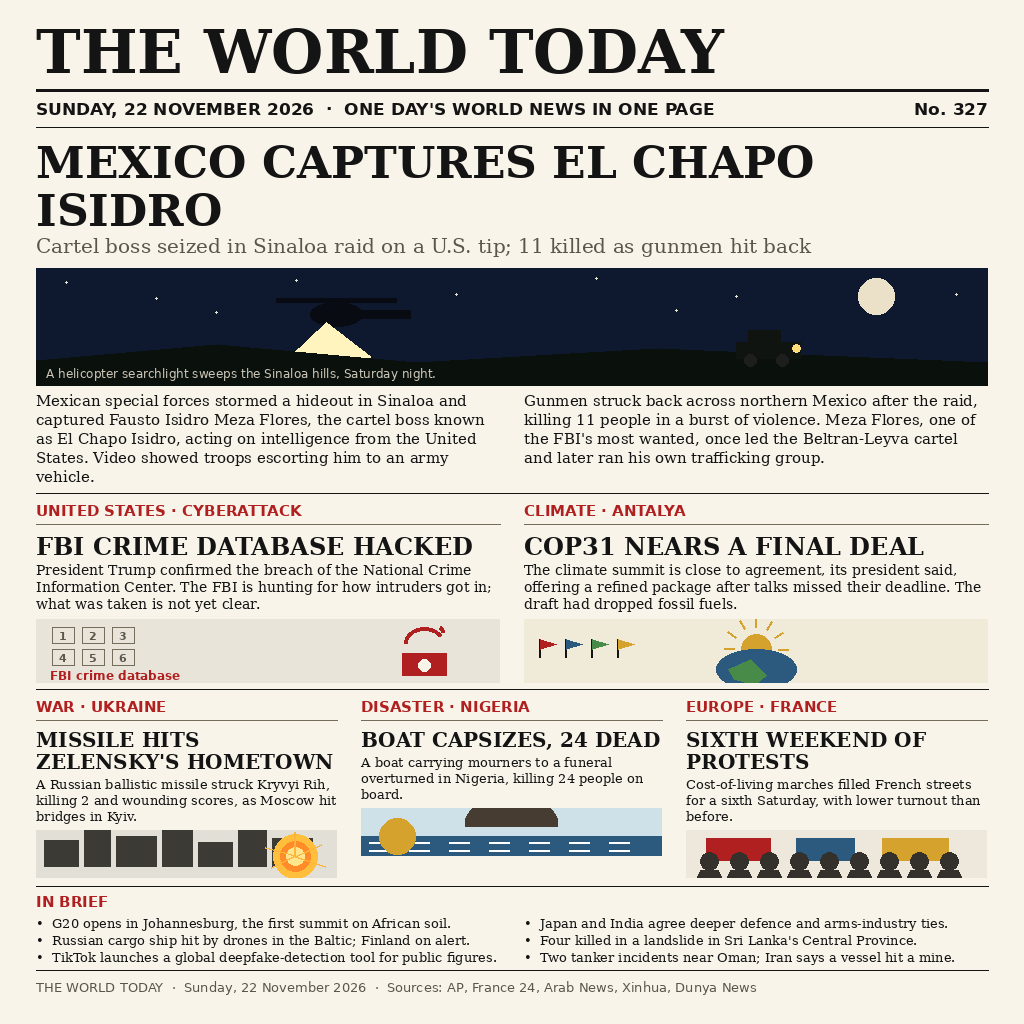
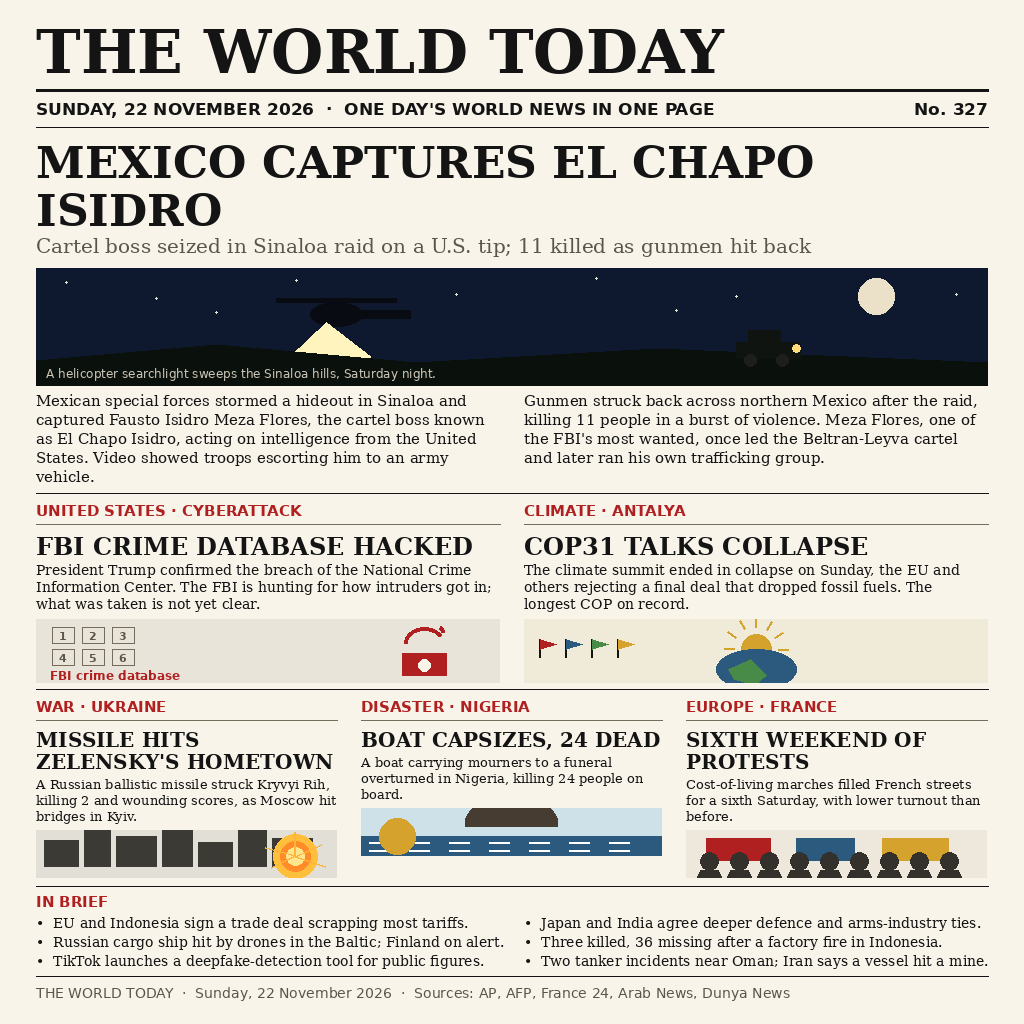
Fix front-page dates: COP31 collapse, EU-Indonesia trade deal, Indonesia factory fire

Changed region(s): [[0.0312, 0.875, 0.9688, 0.9688], [0.5, 0.5, 0.9688, 0.5938]]

diff --git a/render.py b/render.py
@@ -266,12 +266,12 @@ def front_page():
     art_box(img, lock_scene, EDGE, y + 6, half_w, 64)
     left_end = y + 6 + 64
     yr = tag(pen, EDGE + half_w + 24, y_top, "Climate · Antalya", half_w)
-    yr = banner(pen, EDGE + half_w + 24, yr, "COP31 NEARS A FINAL DEAL",
+    yr = banner(pen, EDGE + half_w + 24, yr, "COP31 TALKS COLLAPSE",
                 24, half_w, 26)
     yr = block(pen, EDGE + half_w + 24, yr + 4,
-               "The climate summit is close to agreement, its president "
-               "said, offering a refined package after talks missed their "
-               "deadline. The draft had dropped fossil fuels.",
+               "The climate summit ended in collapse on Sunday, the EU and "
+               "others rejecting a final deal that dropped fossil fuels. "
+               "The longest COP on record.",
                face(SERIF, 14), half_w, 17)
     art_box(img, summit_scene, EDGE + half_w + 24, yr + 6, half_w, 64)
     y = max(left_end, yr + 6 + 64) + 6
@@ -311,15 +311,15 @@ def front_page():
     pen.text((EDGE, y), "IN BRIEF", font=face(SANS_BOLD, 15), fill=CRIMSON)
     y += 22
     briefs = [
-        "G20 opens in Johannesburg, the first summit on African soil.",
+        "EU and Indonesia sign a trade deal scrapping most tariffs.",
         "Japan and India agree deeper defence and arms-industry ties.",
         "Russian cargo ship hit by drones in the Baltic; Finland on alert.",
-        "Four killed in a landslide in Sri Lanka's Central Province.",
-        "TikTok launches a global deepfake-detection tool for public figures.",
+        "Three killed, 36 missing after a factory fire in Indonesia.",
+        "TikTok launches a deepfake-detection tool for public figures.",
         "Two tanker incidents near Oman; Iran says a vessel hit a mine.",
     ]
-    fnt = face(SERIF, 13)
-    row = 17
+    fnt = face(SERIF, 14)
+    row = 19
     for i, item in enumerate(briefs):
         bx = EDGE if i % 2 == 0 else EDGE + half_w + 24
         by = y + (i // 2) * row
@@ -329,8 +329,8 @@ def front_page():
 
     # ---- footer ----
     pen.text((EDGE, y + 8),
-             "THE WORLD TODAY  ·  Sunday, 22 November 2026  ·  Sources: AP, France 24, Arab News, Xinhua, Dunya News",
-             font=face(SANS, 13), fill=SOFT)
+             "THE WORLD TODAY  ·  Sunday, 22 November 2026  ·  Sources: AP, AFP, France 24, Arab News, Dunya News",
+             font=face(SANS, 14), fill=SOFT)
 
     img.save("news_image.png")
     print("wrote news_image.png", img.size)

diff --git a/news_data.md b/news_data.md
@@ -13,11 +13,13 @@ report it: Saturday night's events carried into Sunday's editions.
   hacked, President Trump confirmed. The FBI is investigating how the
   intruders got in; what was taken is not yet clear.
   (Dunya News / AP, 22 November 2026)
-- COP31: Climate talks in Antalya are close to a final deal, the summit
-  president said, presenting a refined package after the talks missed
-  their deadline. Campaigners had called the draft the worst COP yet
-  for dropping any mention of fossil fuels.
-  (Arab News / AFP, 22 November 2026)
+- COP31: Climate talks in Antalya collapsed on Sunday, the EU and
+  others rejecting a final deal that dropped any mention of fossil
+  fuels. The summit ran two days into overtime, the longest COP on
+  record, and ended with no agreement.
+  (Reuters via Nikkei / Al Jazeera / The Hindu, 22 November 2026)
+  [Replaces the 22 Nov morning draft: "close to a final deal" —
+  superseded by the Sunday collapse.]
 - Ukraine: A Russian ballistic missile attack on Kryvyi Rih, President
   Zelensky's hometown in central Ukraine, killed 2 people and wounded
   scores. Moscow also targeted bridges in Kyiv after Ukrainian strikes
@@ -32,15 +34,22 @@ report it: Saturday night's events carried into Sunday's editions.
   (France 24, 22 November 2026)
 
 Briefs:
-- The G20 summit opened in Johannesburg, the first time the meeting is
-  held on African soil. (Xinhua, 22 November 2026)
+- The EU and Indonesia signed a trade deal in Brussels, scrapping
+  duties on most goods after almost a decade of talks; Indonesia will
+  remove duties on 98.5% of tariff lines for EU goods.
+  (AFP / European Commission, 21 November 2026)
+  [Replaces: "The G20 summit opened in Johannesburg" — wrong year.
+  That summit was 22–23 November 2025, not 2026.]
 - Japan and India agreed to deepen military and defence-industry
   cooperation, including live-fire missile training at Indian ranges.
   (22 November 2026)
 - A Russian cargo ship was hit by drones in the Baltic; Finland
   tightened security. (Times of India, 22 November 2026)
-- Four people died in a landslide in Sri Lanka's Central Province.
-  (Xinhua, 22 November 2026)
+- Three people were killed and 36 were missing after a fire at a
+  candy factory in Cikande, Indonesia, which broke out on Saturday
+  afternoon. (AFP / Reuters, 22 November 2026)
+  [Replaces: "Four killed in a landslide in Sri Lanka" — that
+  Kadugannawa landslide was 12–13 November 2026, not 21/22 November.]
 - TikTok launched a global deepfake-detection tool for public figures.
   (22 November 2026)
 - Britain's maritime agency reported two tanker incidents near Oman;

diff --git a/README.md b/README.md
@@ -4,7 +4,7 @@
 [![rank](https://make.fun/badge/news-image-20261122/tpmtling/news-image-20261122-v2/rank.svg)](https://make.fun/bounty/news-image-20261122/leaderboard?utm_source=github&utm_medium=readme&utm_campaign=news-image-20261122)
 [![reward](https://make.fun/badge/news-image-20261122/tpmtling/news-image-20261122-v2/reward.svg)](https://make.fun/bounty/news-image-20261122?utm_source=github&utm_medium=readme&utm_campaign=news-image-20261122)
 
-A one-page newspaper front page summing up Sunday 22 November 2026: Mexico captures cartel boss "El Chapo Isidro", the FBI's crime database is hacked, COP31 nears a final deal, a Russian missile hits Zelensky's hometown, a boat capsizes in Nigeria, and France marches for a sixth weekend. A deterministic Pillow renderer (render.py) draws the page as news_image.png; main.py copies it to /output/entry.png with the standard library alone.
+A one-page newspaper front page summing up Sunday 22 November 2026: Mexico captures cartel boss "El Chapo Isidro", the FBI's crime database is hacked, COP31 talks collapse, a Russian missile hits Zelensky's hometown, a boat capsizes in Nigeria, and France marches for a sixth weekend. A deterministic Pillow renderer (render.py) draws the page as news_image.png; main.py copies it to /output/entry.png with the standard library alone.
 
 ## Run it
 
